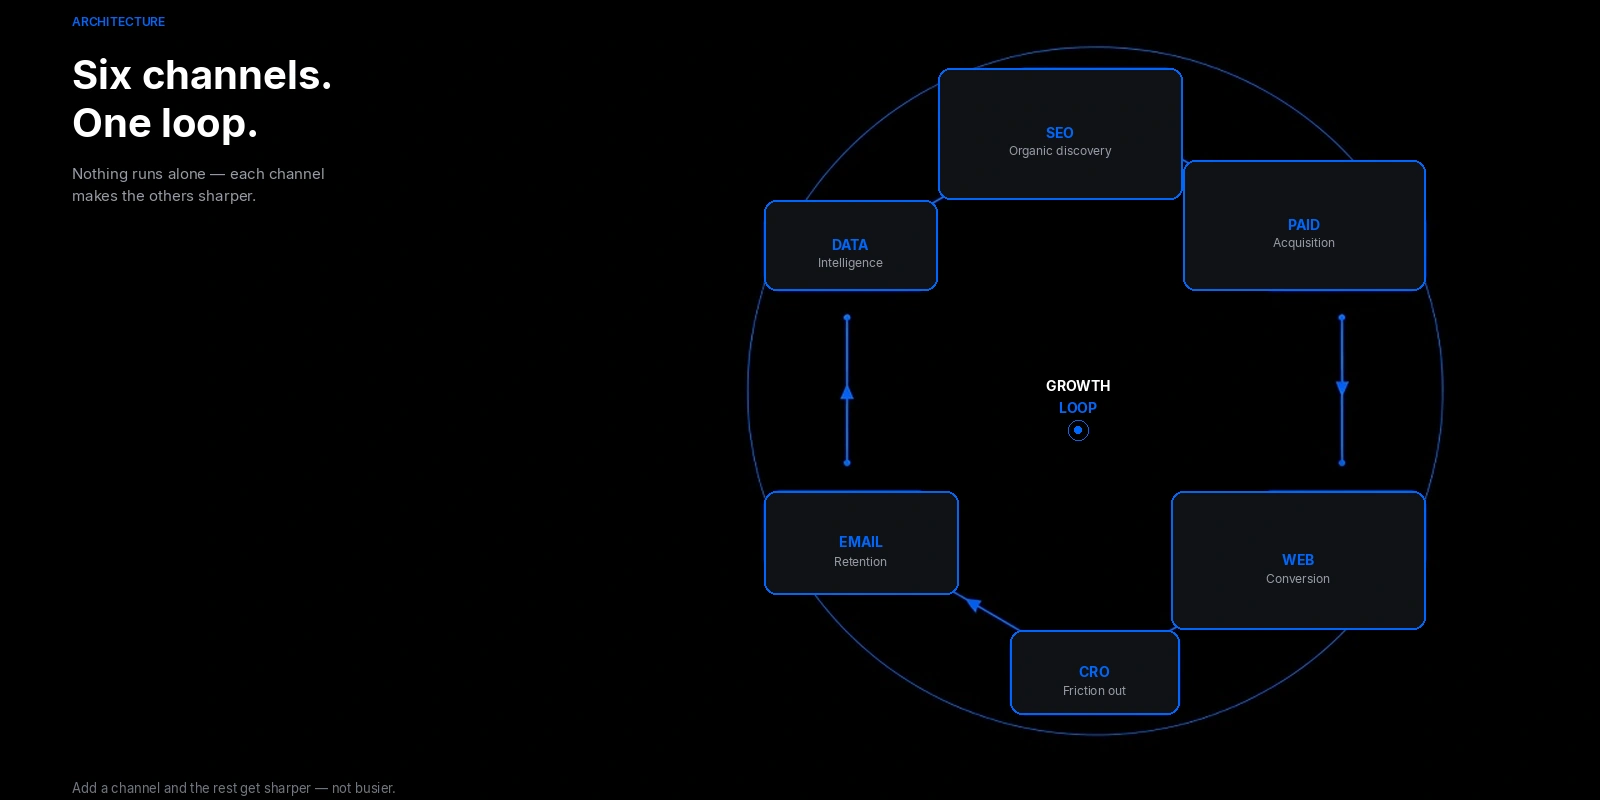
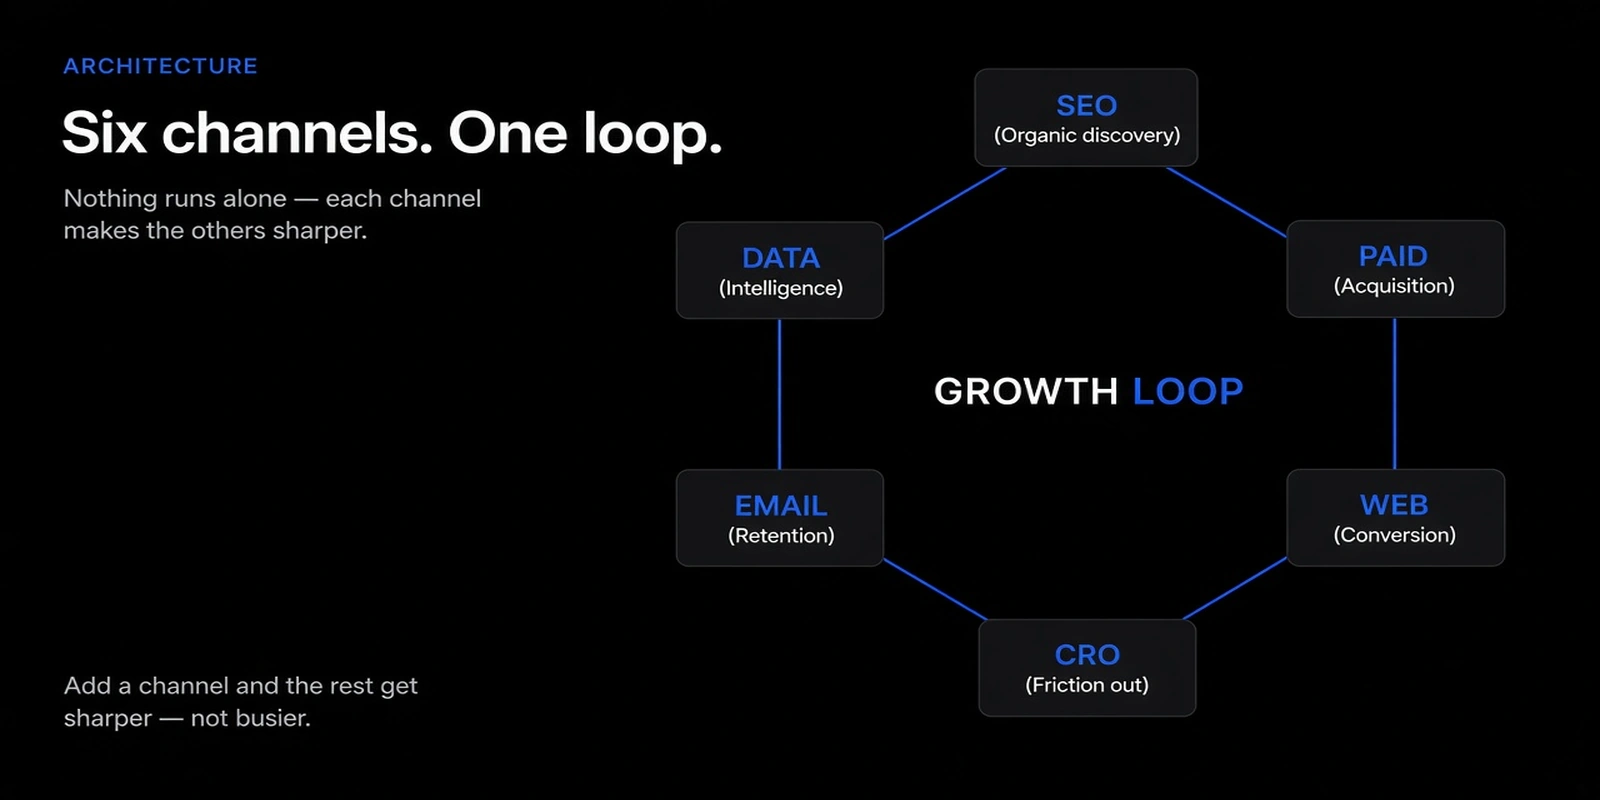
Restore About architecture plate to prior premium growth-loop.
Revert about-architecture-plate.webp to the Six channels / One loop
render from 431892d; keep the updated Why/old-vs-KINEXIS plate. Lock
the plate builder so routine rebuilds do not overwrite architecture.

diff --git a/src/app/[locale]/about/page.tsx b/src/app/[locale]/about/page.tsx
@@ -273,7 +273,7 @@ export default async function AboutPage({ params }: Props) {
             className="about-arch__plate"
           >
             <Image
-              src="/assets/images/editorial/about-architecture-plate.webp?v=20260930e"
+              src="/assets/images/editorial/about-architecture-plate.webp?v=20260930f"
               alt="KINEXIS growth architecture: six channels connected in one loop — SEO, paid, web, CRO, email, and data"
               width={1400}
               height={788}

diff --git a/scripts/build-about-plates.py b/scripts/build-about-plates.py
@@ -257,22 +257,31 @@ def export(img: Image.Image, png: Path, webp: Path, sm: Path | None = None) -> N
 
 
 def main() -> None:
+    # Architecture plate is locked to the premium "Six channels. One loop."
+    # render from commit 431892d — do not overwrite unless explicitly forced.
+    import sys
+
     system = compose_system()
-    arch = compose_arch()
     export(
         system,
         ROOT / "public/assets/images/agency/about-system.png",
         ROOT / "public/assets/images/agency/about-system.webp",
         ROOT / "public/assets/images/agency/about-system-sm.webp",
     )
-    export(
-        arch,
-        ROOT / "public/assets/images/editorial/about-architecture-plate.png",
-        ROOT / "public/assets/images/editorial/about-architecture-plate.webp",
-    )
     Path("/tmp/about-plates").mkdir(parents=True, exist_ok=True)
     system.save("/tmp/about-plates/system-preview.png")
-    arch.save("/tmp/about-plates/arch-preview.png")
+
+    if "--with-arch" in sys.argv:
+        arch = compose_arch()
+        export(
+            arch,
+            ROOT / "public/assets/images/editorial/about-architecture-plate.png",
+            ROOT / "public/assets/images/editorial/about-architecture-plate.webp",
+        )
+        arch.save("/tmp/about-plates/arch-preview.png")
+        print("wrote architecture (forced)")
+    else:
+        print("skipped architecture plate (locked; pass --with-arch to overwrite)")
     print("done")
 
 
